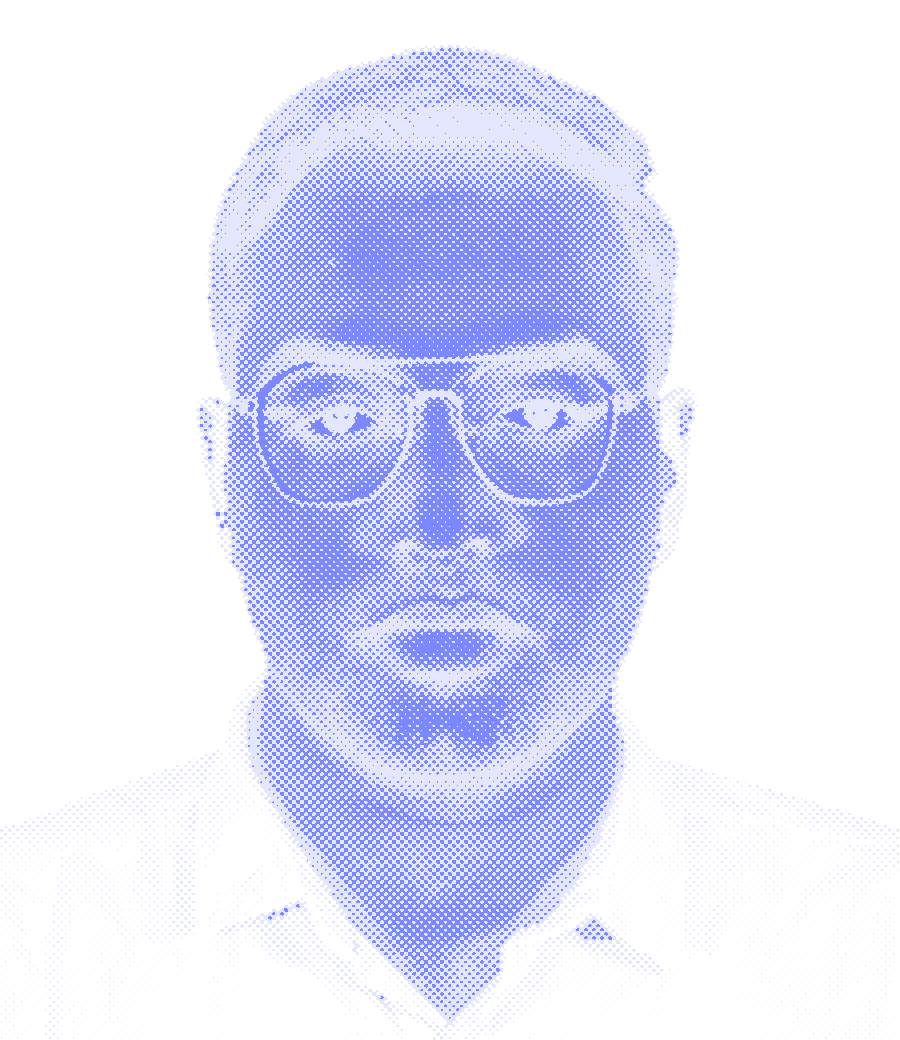
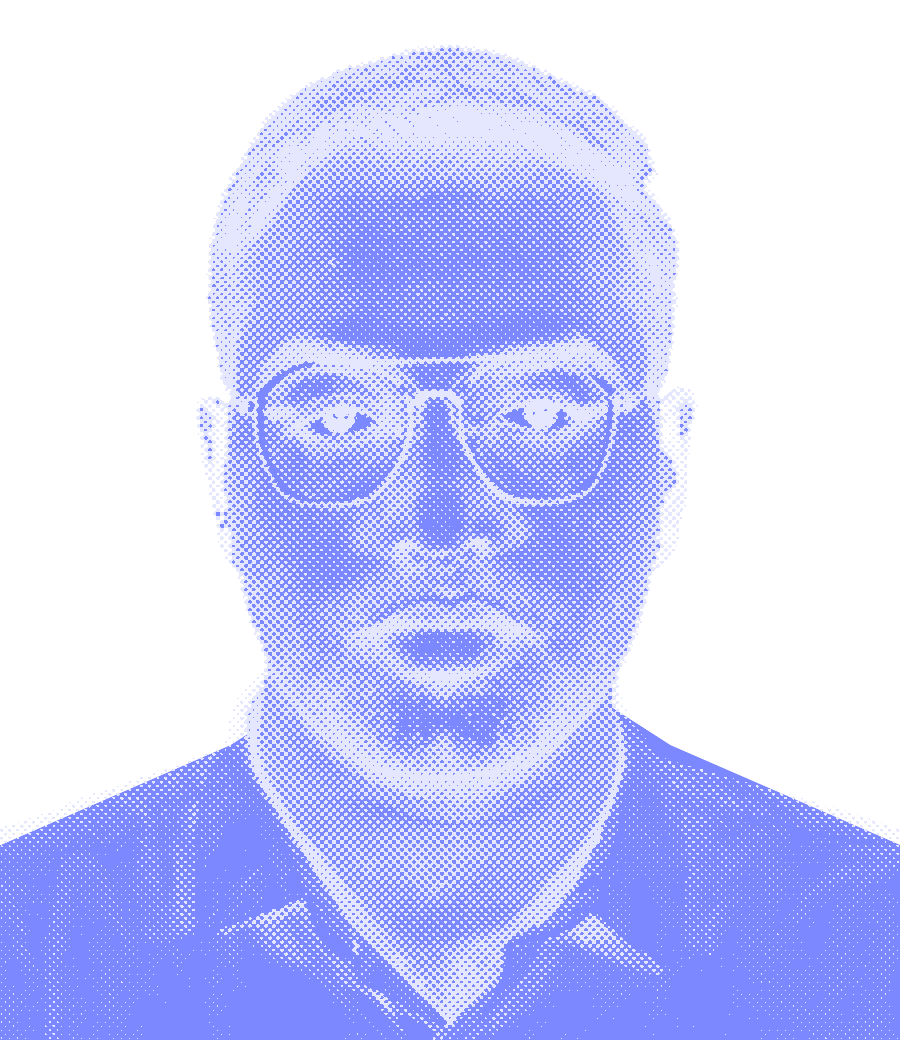
Keep shirt light in dark-mode halftone portrait

Changed region(s): [[0.0, 0.6769, 1.0, 1.0]]

diff --git a/index.html b/index.html
@@ -85,7 +85,7 @@
   <link rel="preload" as="font" type="font/woff2" href="/assets/fonts/archivo-black-latin.woff2" crossorigin />
   <link rel="preload" as="font" type="font/woff2" href="/assets/fonts/space-grotesk-latin.woff2" crossorigin />
   <link rel="preload" as="font" type="font/woff2" href="/assets/fonts/jetbrains-mono-latin.woff2" crossorigin />
-  <link rel="stylesheet" href="/css/styles.css?v=20261009d" />
+  <link rel="stylesheet" href="/css/styles.css?v=20261009e" />
   <!-- defer, in head: the parser starts fetching this during HTML parse instead
        of at the closing </body>, but still runs it after the document is parsed
        and before DOMContentLoaded — identical timing guarantees to the sync tag
